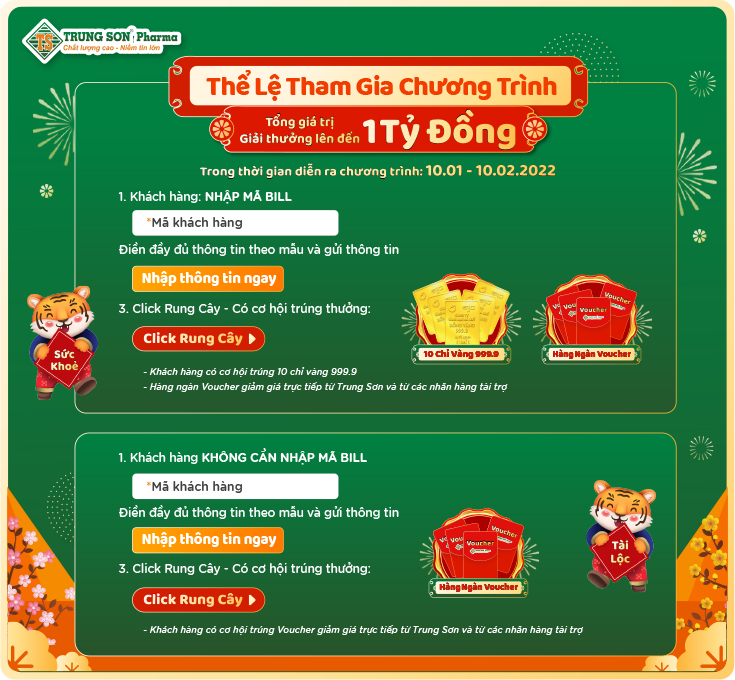
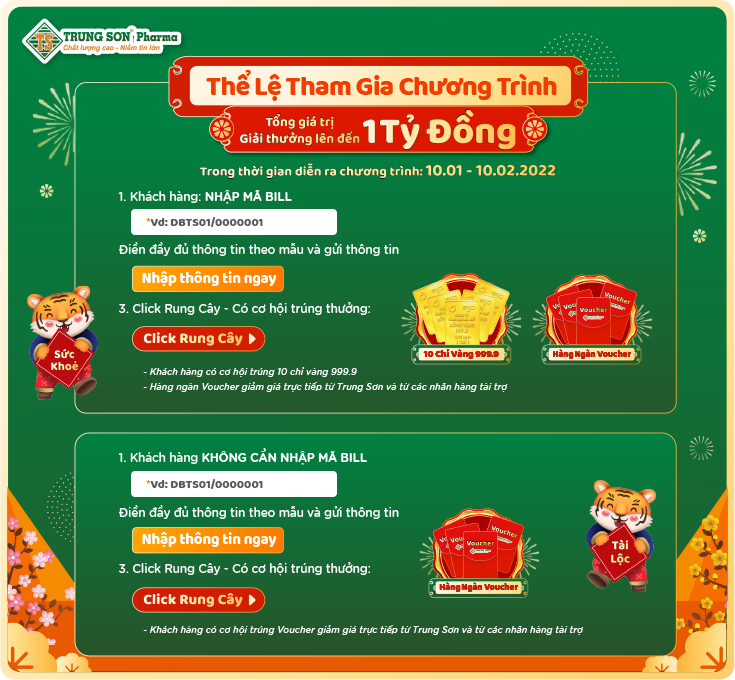
update

diff --git a/html_2021/popup-bill.html b/html_2021/popup-bill.html
@@ -16,7 +16,8 @@
                     <h2>Nhập Mã Bill - Rung Cây</h2>
                     <div class="fs-form">
                         <div class="fs-group">
-                            <label class="fs-hide-label"><input type="text" autocomplete="off" placeholder="*Mã Bill">Mã
+                            <label class="fs-hide-label"><input type="text" autocomplete="off"
+                                    placeholder="*Vd: DBTS01/0000001">Mã
                                 Bill</label>
                         </div>
                         <div class="fs-box-but but-spin">
